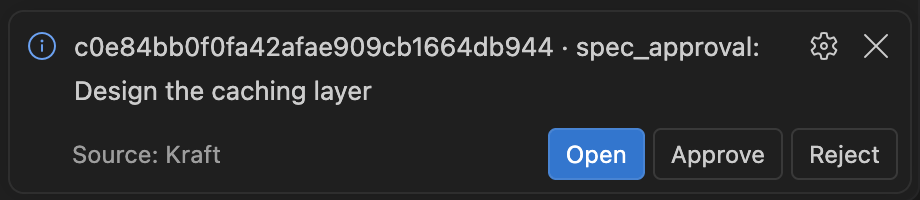
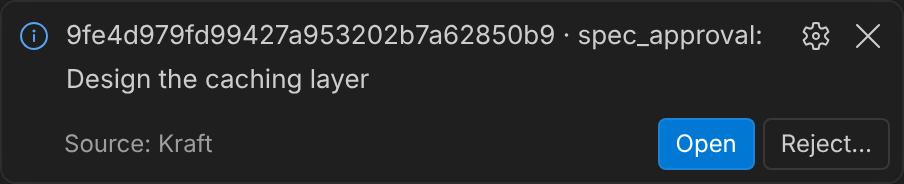
Review polish G: restart warning, steer comment, review 409 wording, gate screenshot
- A restart terminal that exits non-zero asks Kraft whether it still
  answers: if so (no to the running-agents question, nothing running) it
  says Kraft didn't restart and is still running, with no Start Kraft.
- The comment above the phone composer's steer() describes steer().
- The gate-keyed review route's 409 for a chainless item is for any outcome.
- shot.mjs hovers a toast before clearing it (VS Code 1.141) and renders
  at 2x on Linux; the gate notification screenshot is retaken without
  Approve.

Claude-Session: https://claude.ai/code/session_01NisBnTNQ1H5Armzagqsr92

diff --git a/vscode/test/unit/actions.test.ts b/vscode/test/unit/actions.test.ts
@@ -2,7 +2,7 @@ import { afterEach, expect, it, vi } from "vitest";
 import * as vscode from "vscode";
 import { runAction } from "../../src/actions";
 import { restartInTerminal } from "../../src/config/check";
-import { RESTART_FAILED } from "../../src/core/start";
+import { RESTART_FAILED, RESTART_SKIPPED } from "../../src/core/start";
 import type { Store } from "../../src/core/store";
 import { offerWarnings } from "../../src/fileWork";
 import { item } from "./fixtures/item";
@@ -28,20 +28,24 @@ it.each<[string, () => Promise<boolean>, (api: never, store: Store) => Promise<v
 
 // `kraft admin restart` on a Kraft attached to a terminal stops it and exits 1; the
 // terminal running it closes with its message, so the extension says what happened.
-it.each<[string, { code: number | undefined } | undefined, boolean, string | undefined, unknown[][], unknown[][]]>([
-  ["exited 1: says Kraft may be stopped, offers Start", { code: 1 }, true, undefined, [[RESTART_FAILED(1), "Start Kraft"]], []],
-  ["exited 1, Start picked: starts Kraft", { code: 1 }, true, "Start Kraft", [[RESTART_FAILED(1), "Start Kraft"]], [["kraft.startDaemon"]]],
-  ["exited 0: nothing to say", { code: 0 }, true, undefined, [], []],
-  ["closed by hand: nothing to say", { code: undefined }, true, undefined, [], []],
-  ["another terminal closing", { code: 1 }, false, undefined, [], []],
-])("the restart terminal %s", async (_, exitStatus, ours, pick, said, ran) => {
+// It also exits 1 with Kraft still up (no to its running-agents question, nothing
+// running): Kraft still answering is what tells the two apart.
+it.each<[string, { code: number | undefined } | undefined, boolean, boolean, string | undefined, unknown[][], unknown[][]]>([
+  ["exited 1: says Kraft may be stopped, offers Start", { code: 1 }, true, false, undefined, [[RESTART_FAILED(1), "Start Kraft"]], []],
+  ["exited 1, Start picked: starts Kraft", { code: 1 }, true, false, "Start Kraft", [[RESTART_FAILED(1), "Start Kraft"]], [["kraft.startDaemon"]]],
+  ["exited 1, Kraft still answering: says it still runs, no Start", { code: 1 }, true, true, undefined, [[RESTART_SKIPPED(1)]], []],
+  ["exited 0: nothing to say", { code: 0 }, true, false, undefined, [], []],
+  ["closed by hand: nothing to say", { code: undefined }, true, false, undefined, [], []],
+  ["another terminal closing", { code: 1 }, false, false, undefined, [], []],
+])("the restart terminal %s", async (_, exitStatus, ours, up, pick, said, ran) => {
   const closes: ((t: unknown) => void)[] = [];
   const term = { sendText() {}, show() {}, exitStatus: undefined as unknown };
   vi.spyOn(vscode.window, "createTerminal").mockReturnValue(term as never);
   vi.spyOn(vscode.window, "onDidCloseTerminal").mockImplementation(((cb: (t: unknown) => void) => (closes.push(cb), { dispose() {} })) as never);
   const warn = vi.spyOn(vscode.window, "showWarningMessage").mockResolvedValue(pick as never);
   const exec = vi.spyOn(vscode.commands, "executeCommand");
-  restartInTerminal();
+  const api = { health: vi.fn(async () => { if (!up) throw new Error("Kraft is not reachable"); return {}; }) };
+  restartInTerminal(api as never);
   const closed = ours ? Object.assign(term, { exitStatus }) : { exitStatus };
   for (const cb of closes) await cb(closed);
   expect([warn.mock.calls, exec.mock.calls]).toEqual([said, ran]);

diff --git a/vscode/src/config/check.ts b/vscode/src/config/check.ts
@@ -4,7 +4,7 @@ import type { Api } from "../core/api";
 import { reloadProblems, resolveOffer, restartRoute, restartViaTerminal } from "../core/apply";
 import { fromCheck, fromLint, mergeLint, type Diag } from "../core/configDiagnostics";
 import { configFile, isLibraryFile } from "../core/scope";
-import { RESTART_ARGS, RESTART_FAILED, startInvocation } from "../core/start";
+import { RESTART_ARGS, RESTART_FAILED, RESTART_SKIPPED, startInvocation } from "../core/start";
 import { log } from "../log";
 
 const SOURCE = "Kraft · config";
@@ -25,8 +25,9 @@ function toDiagnostic(d: Diag): vscode.Diagnostic {
 
 /** `kraft admin restart` in a terminal: the binary Start Kraft runs, from the home folder as
  *  Start Kraft runs it, not the workspace's. The terminal's process is kraft itself, so no
- *  shell has to quote the path; its output closes with it, so a failure is said here. */
-export function restartInTerminal(): void {
+ *  shell has to quote the path; its output closes with it, so a failure is said here, and
+ *  Start Kraft offered only when Kraft no longer answers. */
+export function restartInTerminal(api: Pick<Api, "health">): void {
   const { file } = startInvocation(vscode.workspace.getConfiguration("kraft").get<string>("path"), homedir());
   const t = vscode.window.createTerminal({ name: "Kraft", cwd: homedir(), shellPath: file, shellArgs: [...RESTART_ARGS] });
   const closed = vscode.window.onDidCloseTerminal(async (c) => {
@@ -34,6 +35,7 @@ export function restartInTerminal(): void {
     closed.dispose();
     const code = c.exitStatus?.code;
     if (!code) return;
+    if (await api.health().then(() => true, () => false)) return void vscode.window.showWarningMessage(RESTART_SKIPPED(code));
     if ((await vscode.window.showWarningMessage(RESTART_FAILED(code), "Start Kraft")) === "Start Kraft")
       void vscode.commands.executeCommand("kraft.startDaemon");
   });
@@ -107,12 +109,12 @@ export function registerConfigChecks(context: vscode.ExtensionContext, api: Api,
       return;
     }
     if ((await vscode.window.showInformationMessage(o.message, "Restart Kraft")) !== "Restart Kraft") return;
-    if (restartRoute(managed) === "terminal") return restartInTerminal();
+    if (restartRoute(managed) === "terminal") return restartInTerminal(api);
     try {
       await api.restart();
       void vscode.window.showInformationMessage("Kraft is restarting.");
     } catch (e) {
-      if (restartViaTerminal(e)) restartInTerminal();
+      if (restartViaTerminal(e)) restartInTerminal(api);
       else {
         log.error(`restart failed: ${(e as Error).message}`);
         void vscode.window.showErrorMessage(String((e as Error).message));

diff --git a/frontend/src/ng/phone/item/Composer.tsx b/frontend/src/ng/phone/item/Composer.tsx
@@ -19,10 +19,12 @@ export const isComposeKind = (v: string | null): v is ComposeKind => COMPOSE_KIN
 const gateOf = (item: ItemDetail) => item.pending_gate ?? item.stop?.node ?? "";
 const nodeOf = (item: ItemDetail) => item.stop?.node ?? item.current_node_id;
 
-/** Steer on a running item pauses it, then resumes it with the note, one call
- *  after the other and never together (R12, R66): the pause is what lets the
- *  agent read the note at its next launch. A pause that went through and a
- *  resume that was refused leaves the item paused, and says so. */
+/** Sends the note through the door `steerDoor` names. A stopped item's retry
+ *  carries it, at the node it stopped on. A running item is paused, then
+ *  resumed with it, one call after the other and never together (R12, R66):
+ *  the pause is what lets the agent read the note at its next launch, and a
+ *  pause that went through with its resume refused leaves the item paused, and
+ *  says so. Anything else resumes with it. */
 export async function steer(item: ItemDetail, text: string): Promise<Done & { paused?: boolean }> {
   const door = steerDoor(item);
   if (door === "retry") {

diff --git a/vscode/src/core/start.ts b/vscode/src/core/start.ts
@@ -21,6 +21,10 @@ export const RESTART_ARGS = ["admin", "restart"] as const;
 export const RESTART_FAILED = (code: number) =>
   `Kraft didn't restart (exit ${code}). A Kraft that was running in a terminal stops and waits to be started again there with \`kraft\`, or here with Start Kraft.`;
 
+/** The same exit with Kraft still answering: `kraft admin restart` also exits 1 when its
+ *  running-agents question is answered no, and then nothing was stopped. */
+export const RESTART_SKIPPED = (code: number) => `Kraft didn't restart (exit ${code}); it is still running.`;
+
 /** A rejected execFile: `code` is the errno string (`ENOENT`) or the exit status. */
 export type StartError = { code?: string | number | null; stderr?: string | Buffer; killed?: boolean; message?: string };
 

diff --git a/docsite/content/5.reference/08.http-api/5.budget-and-events.md b/docsite/content/5.reference/08.http-api/5.budget-and-events.md
@@ -183,7 +183,7 @@ With no gate pending it gives what a gateless `request_changes` would target, wi
 
 ### `POST /api/work-items/{id}/review`
 
-Submits a review on whichever gate is pending: `outcome` is `approve`, `request_changes` or `comment`. [Review a change](/guides/day-to-day/review-a-change) covers it. `POST /api/work-items/{id}/gates/{gate}/review` takes the same body for a named gate, and answers `409` when that gate is not pending. Either answers `409` for an item with no materialized chain to act on, as a row the legacy loader filed has none, when the review is on a pending gate or requests changes.
+Submits a review on whichever gate is pending: `outcome` is `approve`, `request_changes` or `comment`. [Review a change](/guides/day-to-day/review-a-change) covers it. `POST /api/work-items/{id}/gates/{gate}/review` takes the same body for a named gate, and answers `409` when that gate is not pending. For an item with no materialized chain to act on, as a row the legacy loader filed has none, the gate-keyed route answers `409` whatever the `outcome`, and the item route does when a gate is pending or the review requests changes.
 
 A review with `outcome: approve` takes an optional `digest`, passed to the gate approval as `POST /api/work-items/{id}/gates/{gate}/approve` takes it. A chain revision gate needs it: the one `GET /api/work-items/{id}/artifact` returned. Without it, or with a stale one, the route answers `409`. Any other gate ignores it.
 

diff --git a/docsite/content/3.guides/1.day-to-day/7.vscode.md b/docsite/content/3.guides/1.day-to-day/7.vscode.md
@@ -395,10 +395,14 @@ running Kraft what the file needs:
 
 A Kraft started by a service manager restarts itself. One started from a
 terminal opens a terminal in your home folder running `kraft admin restart`
-with the binary **Start Kraft** runs (`kraft.path`). If that restart fails, as
-it does for a Kraft running attached to a terminal, which it stops, a
-notification says so and offers **Start Kraft**. A reload that Kraft
-partly refuses names each refused file and its reason.
+with the binary **Start Kraft** runs (`kraft.path`).
+
+If that restart fails, as it does for a Kraft running attached to a terminal,
+which it stops, a notification says so and offers **Start Kraft**. If Kraft
+still answers, as when you answer no to its question about running agents,
+the notification says Kraft is still running and offers nothing.
+
+A reload that Kraft partly refuses names each refused file and its reason.
 
 ## Settings
 
